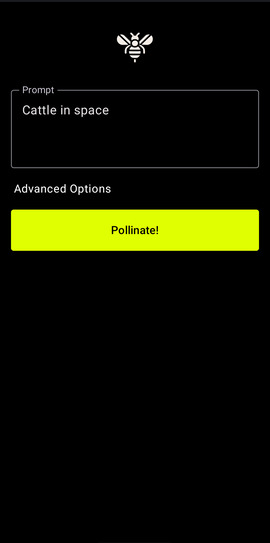
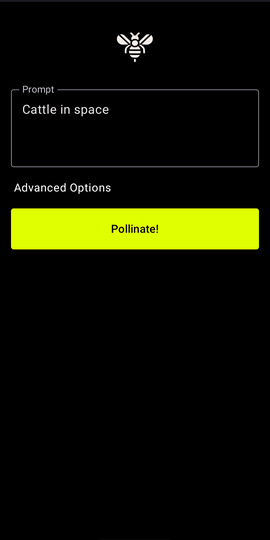
One Screenshot Broken

diff --git a/README.md b/README.md
@@ -51,7 +51,7 @@ I would like to extend my sincere appreciation for the [Pollinations AI](https:/
 
 A special thanks to [Thomas Haferlach](https://github.com/voodoohop) for his support!
 
-![Generator](screenshots/generator_1.png)
+![Generator](screenshots/generator_1.jpg)
 ![Generator](screenshots/generator_2.jpg)
 ![Generator](screenshots/generator_3.jpg)
 ![Generator](screenshots/result_1.jpg)
